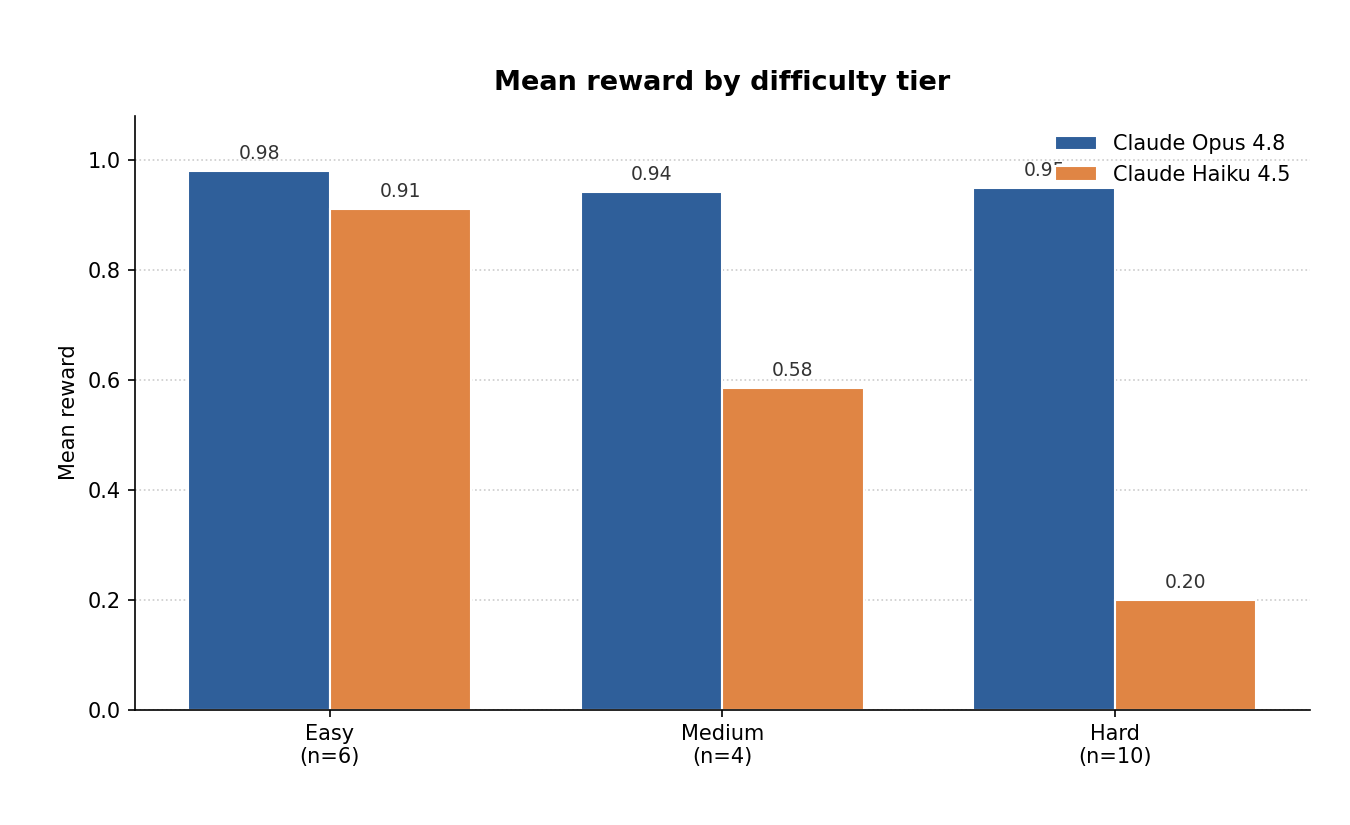
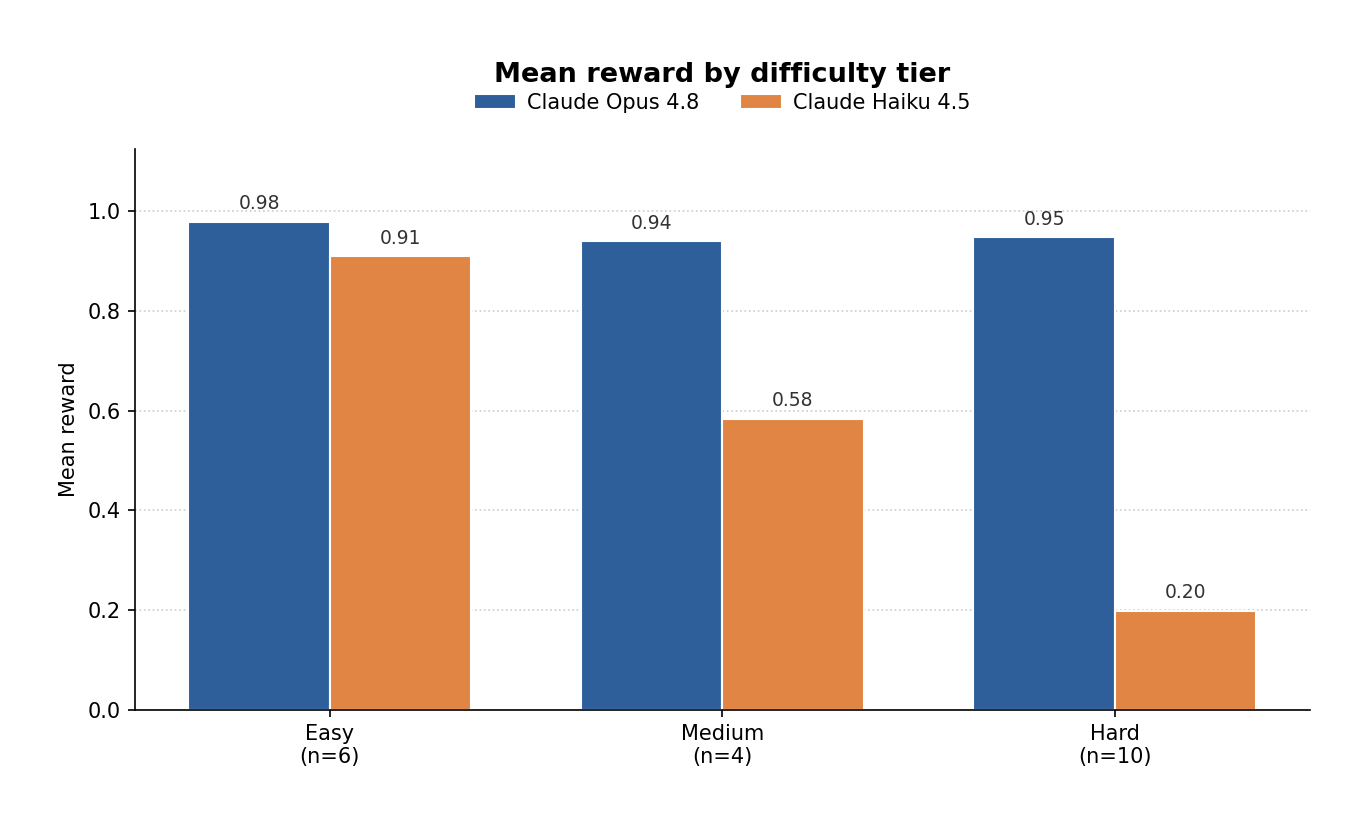
chore: remove outdated charts and update asset images

diff --git a/README.md b/README.md
@@ -76,8 +76,6 @@ is defined):
 raiden-samples/
 ├── README.md                 # this document
 ├── LICENSE                   # MIT (Ethara.AI 2026)
-├── REQUIREMENTS.md           # the pilot requirements this repo satisfies
-├── make_plot.py              # regenerates all charts under assets/ from dataset/ + trajectories/
 ├── assets/                   # figures
 │   ├── hero.png              # README banner
 │   ├── opus_vs_haiku.png     # per-task reward dumbbell chart (Opus vs Haiku, 20 tasks)
@@ -354,16 +352,6 @@ for m, xs in sorted(by_model.items()):
     print(f"{m:22s} n={len(xs):2d}  mean={sum(xs)/len(xs):.4f}  pass@1={at1:.4f}")
 # -> claude-haiku-4-5      n=20  mean=0.4888  pass@1=0.0000
 # -> claude-opus-4-8       n=20  mean=0.9557  pass@1=0.3000
-```
-
-### Regenerate the charts
-
-All three charts in this document (`assets/opus_vs_haiku.png`, `assets/reward_by_tier.png`,
-`assets/cost_by_tier.png`) are generated from the shipped `dataset/` and `trajectories/`:
-
-```bash
-python3 make_plot.py                 # writes all three charts under assets/
-python3 make_plot.py out.png         # or write only the dumbbell chart to a custom path
 ```
 
 ### Re-run a single task in Docker
